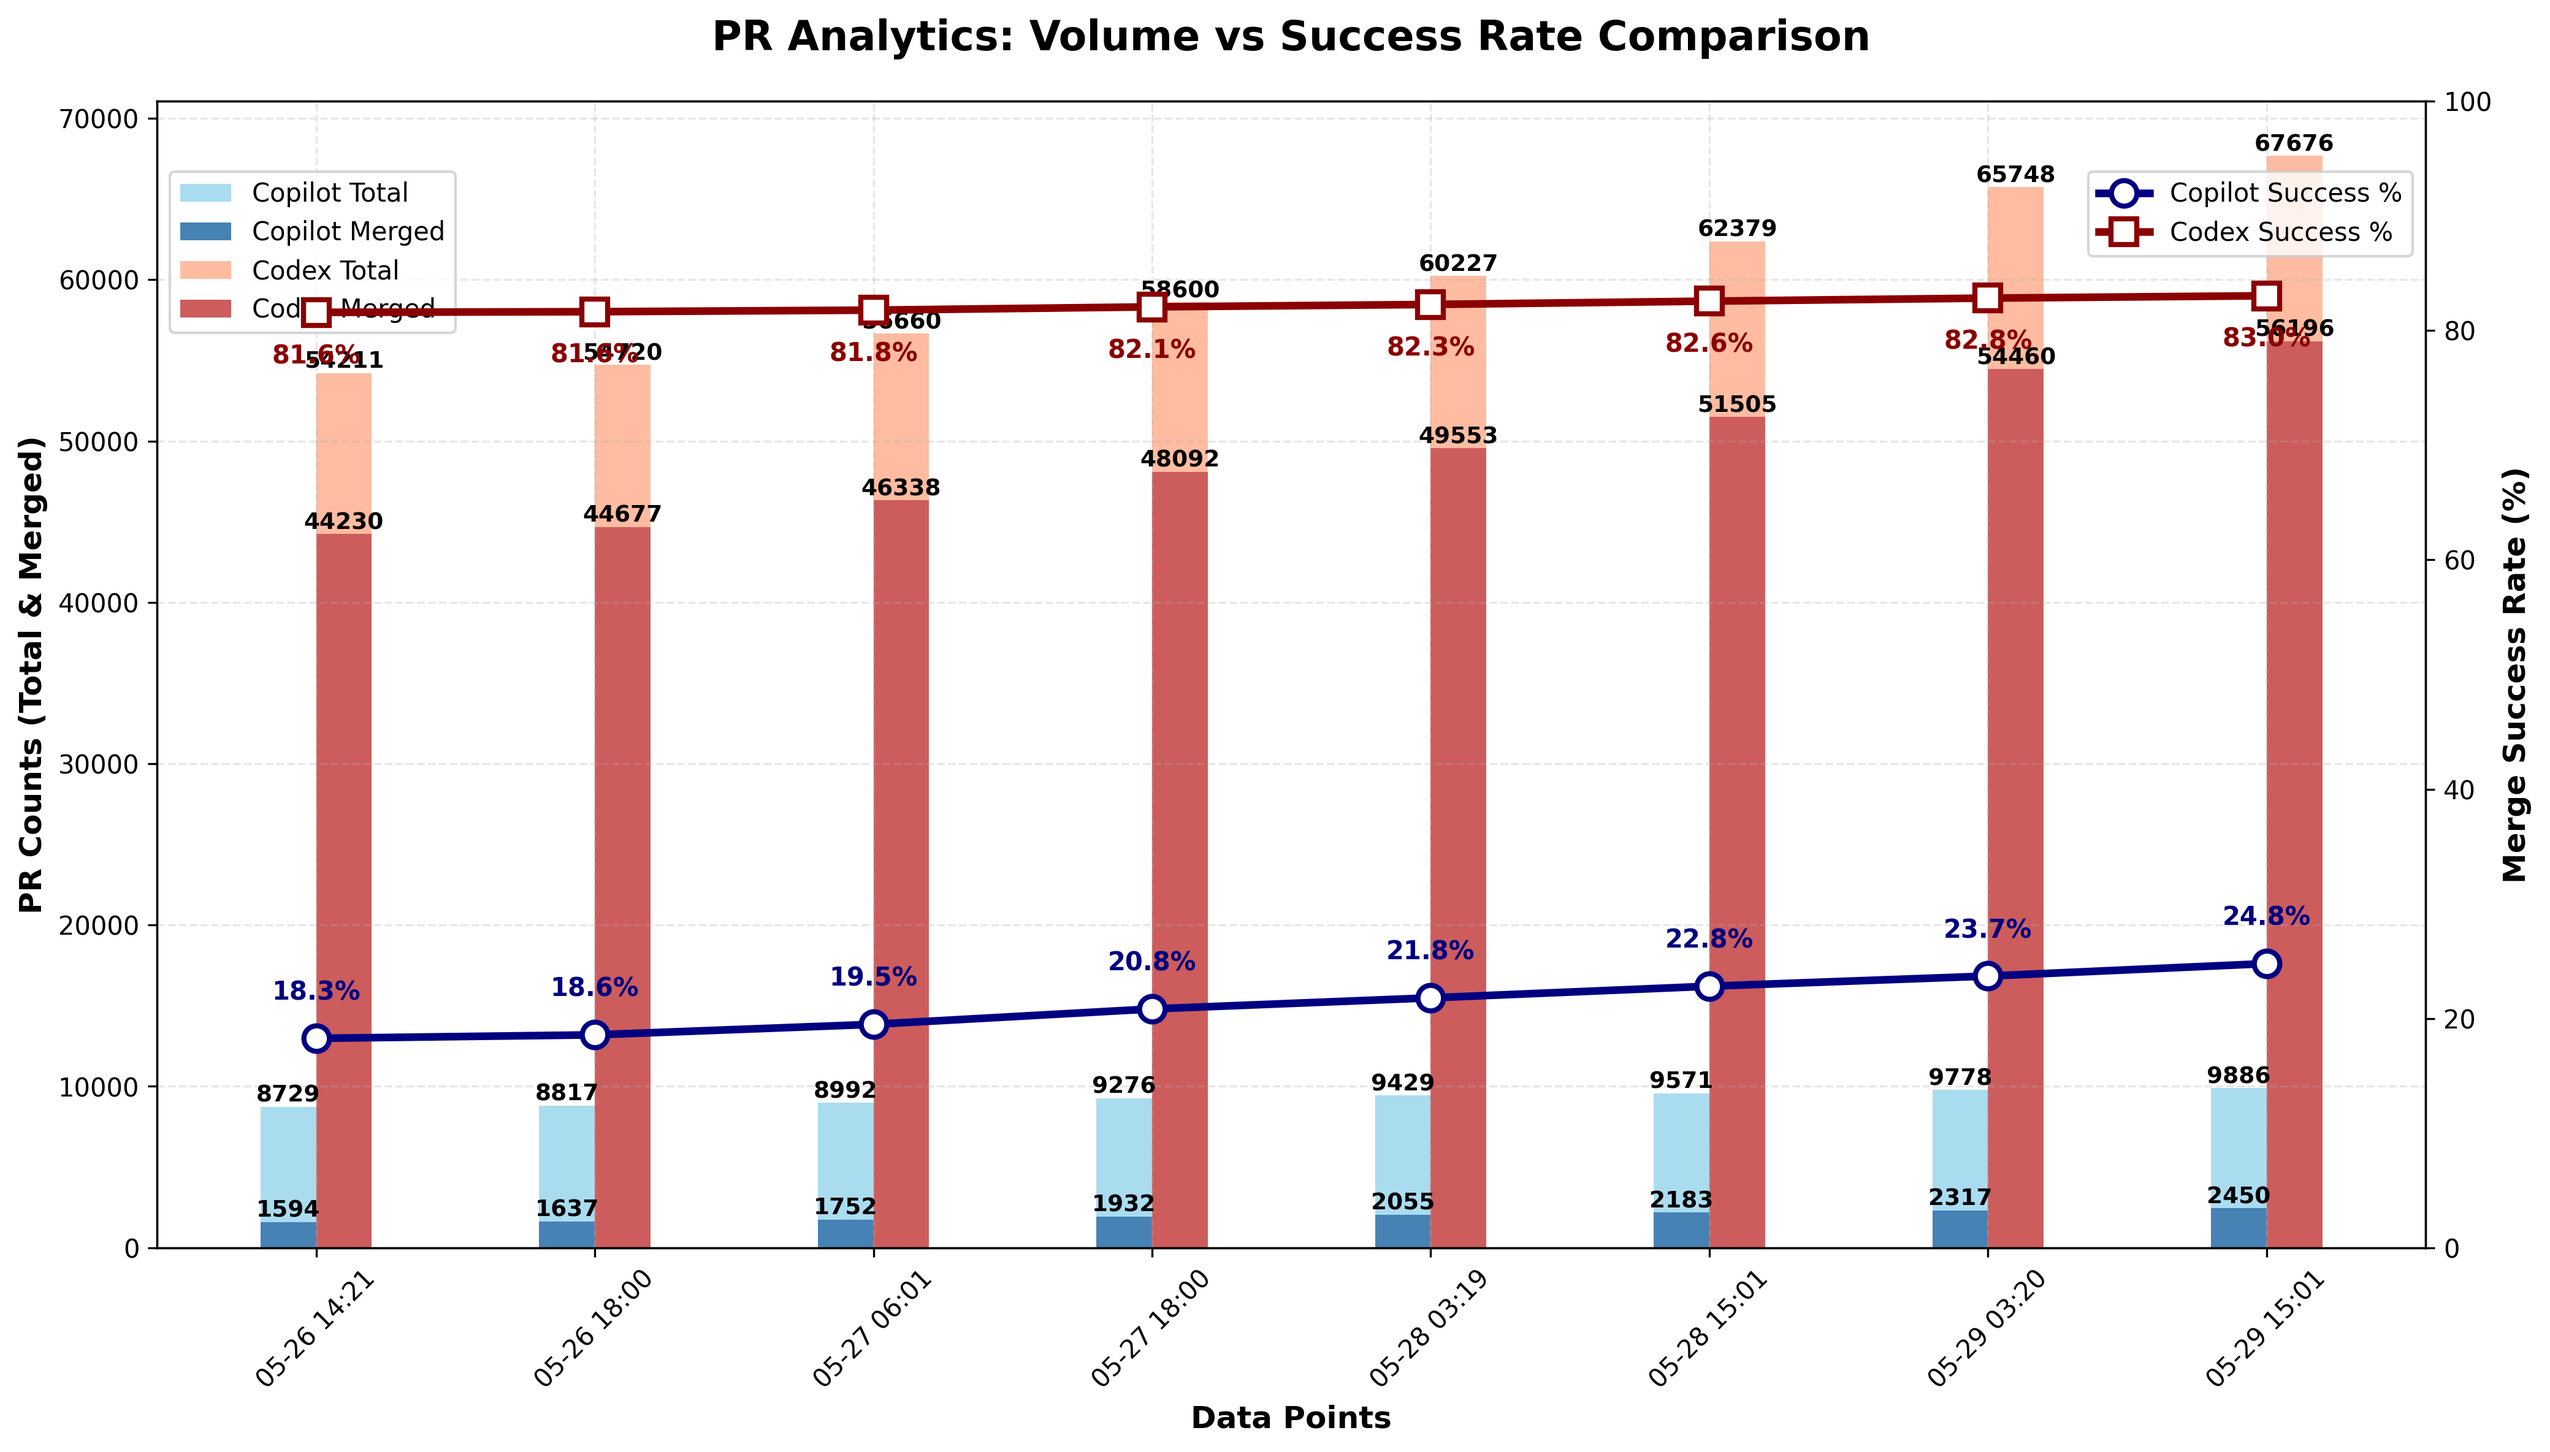
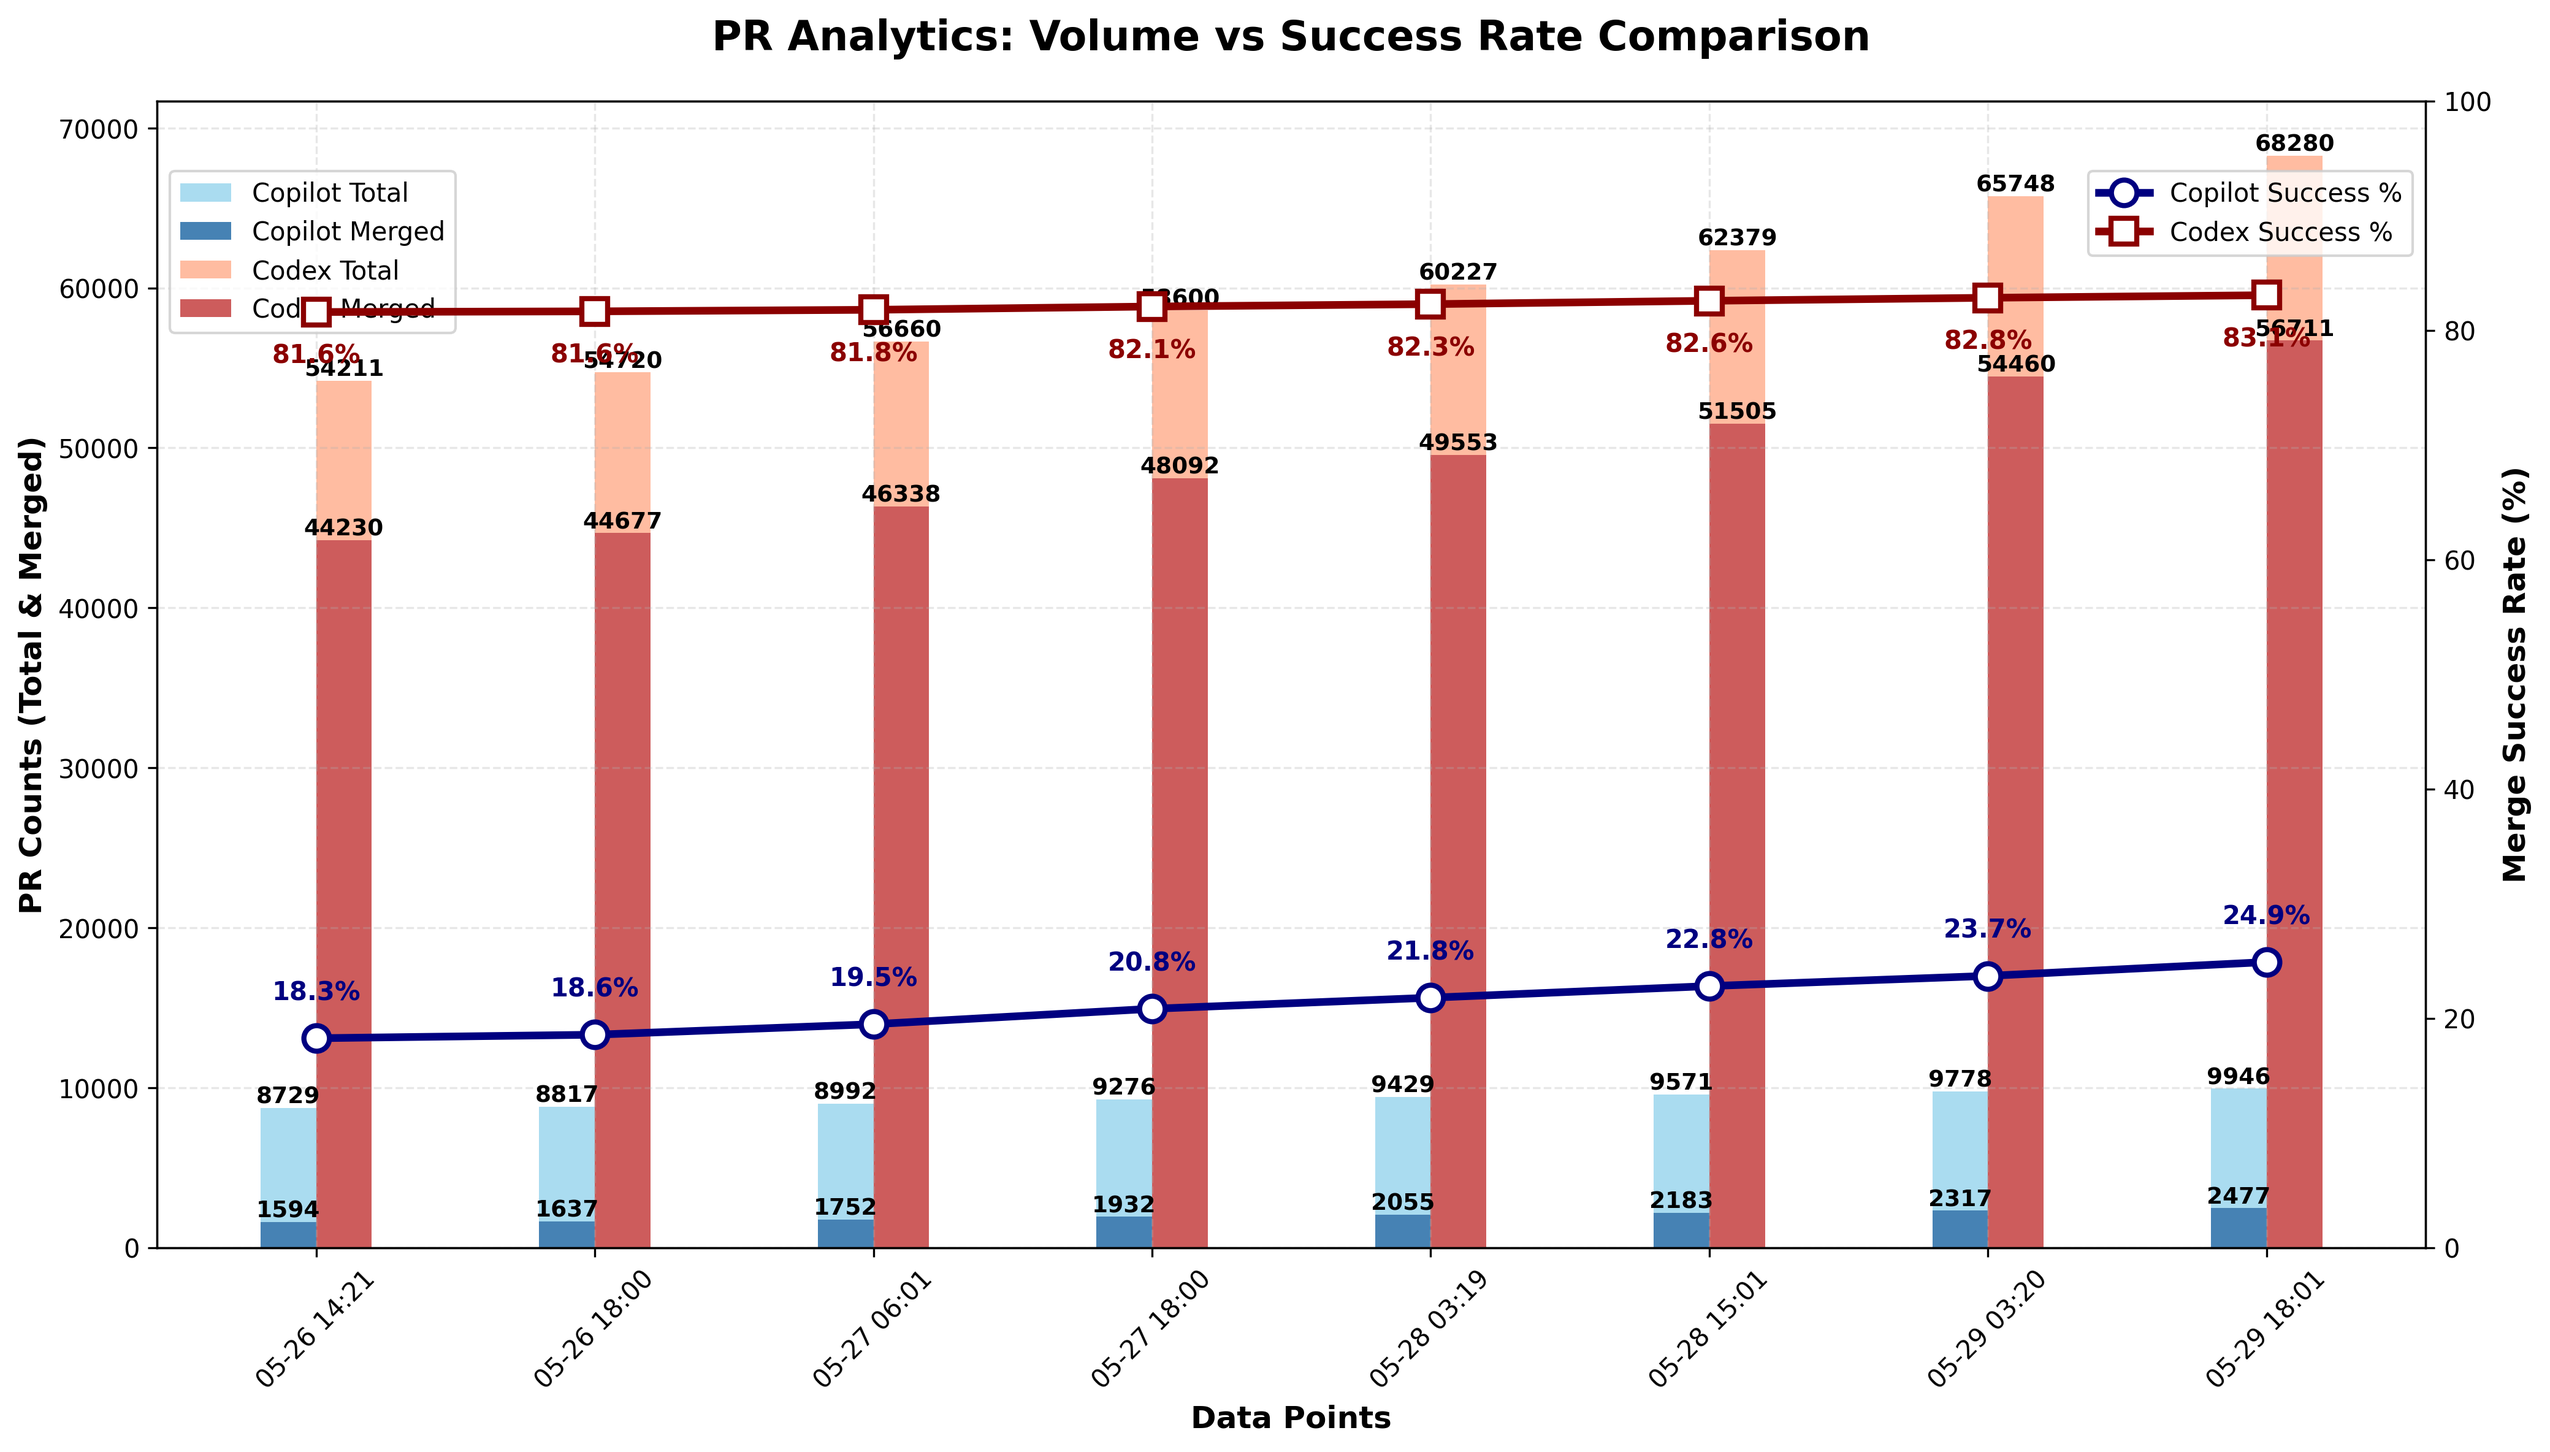
chore: update PR‑approval chart

diff --git a/docs/index.html b/docs/index.html
@@ -44,22 +44,22 @@
                 <tbody>
                     <tr>
                         <td>Copilot</td>
-                        <td>9,886</td>
-                        <td>2,450</td>
-                        <td>24.78%</td>
+                        <td>9,946</td>
+                        <td>2,477</td>
+                        <td>24.90%</td>
                     </tr>
                     <tr>
                         <td>Codex</td>
-                        <td>67,676</td>
-                        <td>56,196</td>
-                        <td>83.04%</td>
+                        <td>68,280</td>
+                        <td>56,711</td>
+                        <td>83.06%</td>
                     </tr>
                 </tbody>
             </table>
         </section>
 
         <footer>
-            <p>Last updated: <span id="last-updated">May 29, 2025 15:01 UTC</span></p>
+            <p>Last updated: <span id="last-updated">May 29, 2025 18:01 UTC</span></p>
             <p><a href="https://github.com/aavetis/ai-pr-watcher">View on GitHub</a></p>
         </footer>
     </div>

diff --git a/README.md b/README.md
@@ -19,5 +19,5 @@ Explore the GitHub search queries used:
 
 | Project | Total PRs | Merged PRs | Merge Rate |
 | ------- | --------- | ---------- | ---------- |
-| Copilot | 9,886 | 2,450 | 24.78% |
-| Codex   | 67,676 | 56,196 | 83.04% |
+| Copilot | 9,946 | 2,477 | 24.90% |
+| Codex   | 68,280 | 56,711 | 83.06% |
